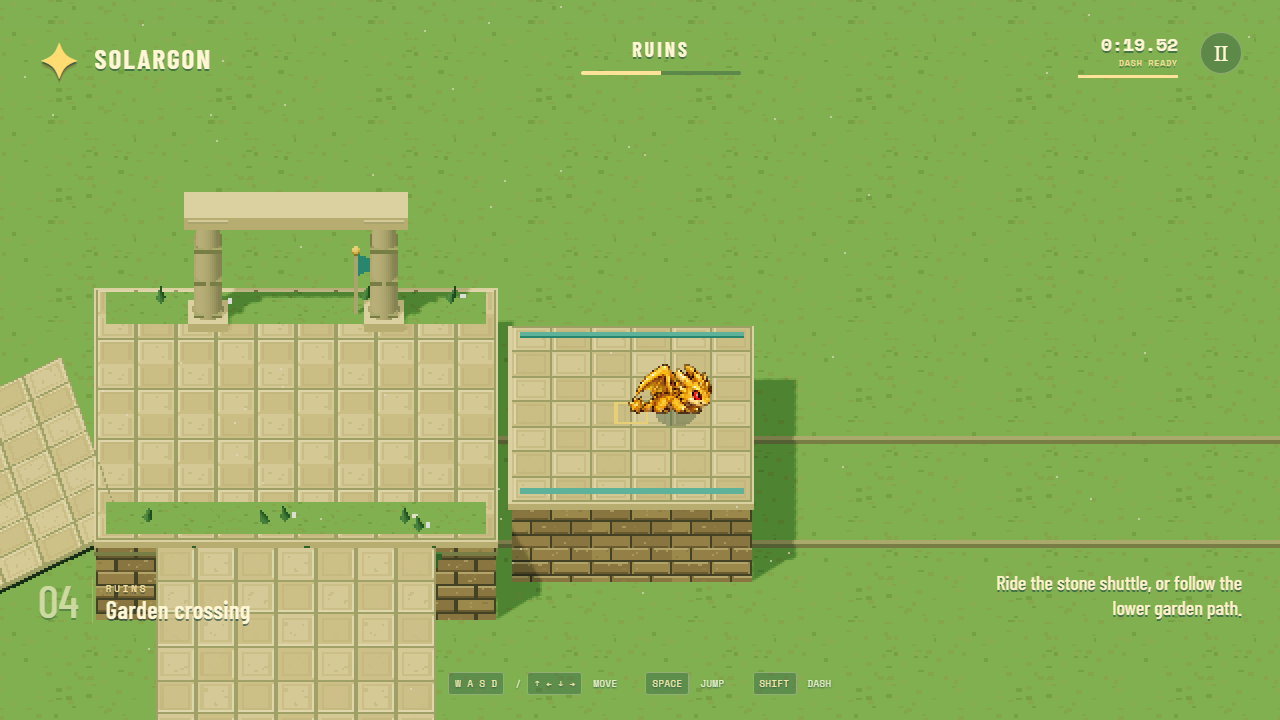
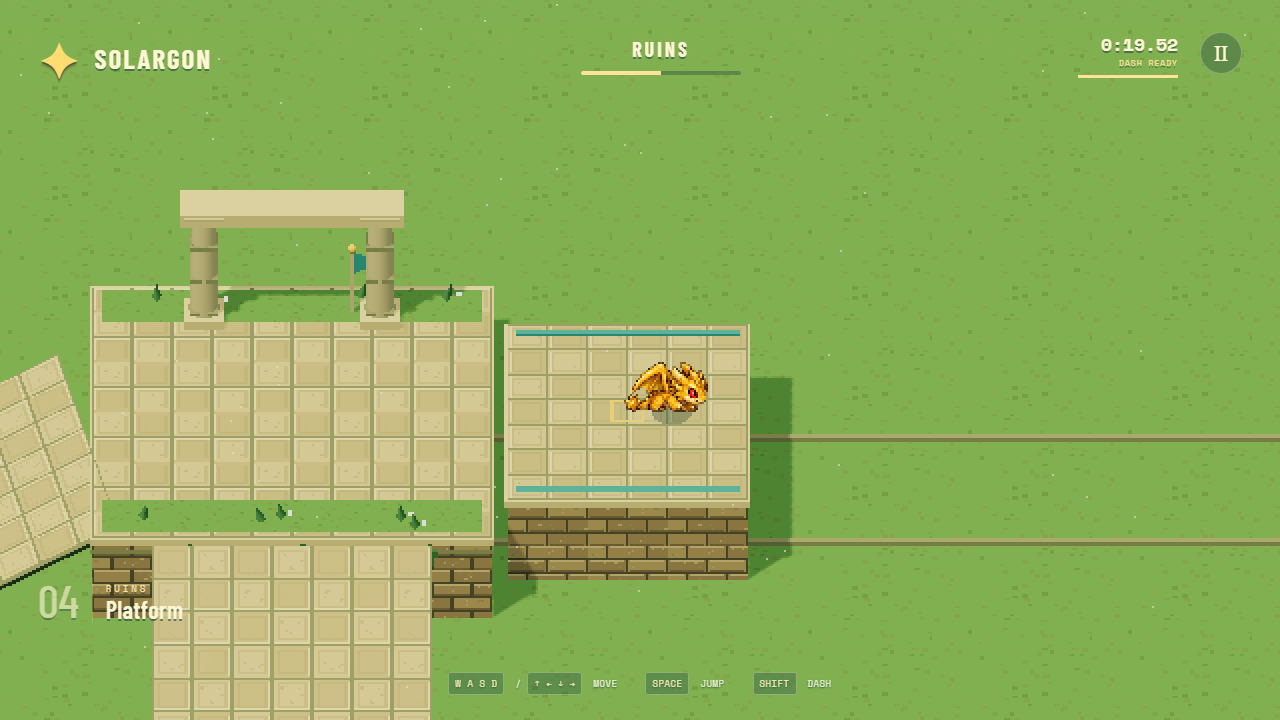
Remove all interface hint prose and decorative labels

Changed region(s): [[0.0, 0.275, 1.0, 1.0], [0.7812, 0.7944, 0.9688, 0.8556]]

diff --git a/src/course.ts b/src/course.ts
@@ -3,24 +3,12 @@ import type { PlatformSpec, Vec3 } from "./types";
 export const SPAWN: Vec3 = { x: -2.5, y: 0.86, z: 1 };
 export const GROUND = { x: 90, z: -22, top: -0.08, width: 380, depth: 180 };
 export const SECTIONS = [
-  { name: "Courtyard", hint: "Follow the blue flags. {dash} to dash." },
-  {
-    name: "Broken gallery",
-    hint: "Weave around the walls, or jump the low breaks.",
-  },
-  {
-    name: "Shuttle approach",
-    hint: "The upper dock leads to a shorter route.",
-  },
-  {
-    name: "Garden crossing",
-    hint: "Ride the stone shuttle, or follow the lower garden path.",
-  },
-  { name: "Column garden", hint: "Turn north at the flags." },
-  {
-    name: "Final straight",
-    hint: "Jump the low hurdles, or use the side lane.",
-  },
+  { name: "Start" },
+  { name: "Walls" },
+  { name: "Ramp" },
+  { name: "Platform" },
+  { name: "Garden" },
+  { name: "Finish" },
 ];
 export const PLATFORMS: PlatformSpec[] = [
   { id: "courtyard", x: 0, z: 0, top: 0, width: 18, depth: 14, section: 0 },

diff --git a/src/ui.ts b/src/ui.ts
@@ -78,7 +78,7 @@ export class UI {
     this.screen = screen;
     const playing = screen === "playing";
     element("overlay").hidden = playing;
-    for (const id of ["hud", "location", "hint", "controls"])
+    for (const id of ["hud", "location", "controls"])
       element(id).hidden = !playing;
     if (playing) {
       element<HTMLButtonElement>("primary-button").blur();
@@ -117,15 +117,6 @@ export class UI {
       "0",
     );
     element("location-name").textContent = info.name;
-    element("hint").textContent = info.hint
-      .replace(
-        "{jump}",
-        this.source === "gamepad" && this.connected ? "✕" : "Space",
-      )
-      .replace(
-        "{dash}",
-        this.source === "gamepad" && this.connected ? "Square / R1" : "Shift",
-      );
     element("progress-fill").style.width =
       `${Math.min(100, Math.max(0, progress * 100))}%`;
     element("run-time").textContent = formatTime(time);

diff --git a/index.html b/index.html
@@ -37,7 +37,6 @@
           <small>RUINS</small><strong id="location-name">Courtyard</strong>
         </div>
       </div>
-      <div id="hint" hidden></div>
       <div id="controls" hidden>
         <span><kbd>W A S D</kbd> / <kbd>↑ ← ↓ →</kbd> MOVE</span
         ><span><kbd>SPACE</kbd> HOLD TO JUMP HIGHER</span
@@ -47,9 +46,9 @@
         <section class="menu" aria-labelledby="menu-title">
           <div class="eyebrow" id="menu-eyebrow"></div>
           <div class="menu-emblem">✦</div>
-          <h1 id="menu-title">UNTITLED</h1>
-          <div id="menu-subtitle">KAIJU PLATFORMER · RUINS</div>
-          <p id="menu-description">Reach the sun gate.</p>
+          <h1 id="menu-title">PLAYTEST</h1>
+          <div id="menu-subtitle">RUINS</div>
+          <p id="menu-description"></p>
           <button id="primary-button" class="primary-button" disabled>
             Loading…
           </button>

diff --git a/AGENTS.md b/AGENTS.md
@@ -2,7 +2,7 @@
 
 - Read README.md and TODO.md before changing the game. For any character or environment art work, follow ART_DIRECTION.md and inspect the relevant original reference image before generation or integration.
 - Preserve each named character's identity. Solargon's generated atlas is a working draft; do not copy its clipping, inconsistent anatomy or shared jump/fall pose into new final assets.
-- Keep player-facing text plain and useful: names, controls, route instructions and results. No AI-sounding slogans, forced whimsy, marketing text or development notes in the interface.
+- Player-facing text is limited to functional labels, controls, time/results and menu buttons. No hint sentences, descriptions, taglines, decorative area names, slogans, forced whimsy, marketing text or development notes. Do not add prose back during level-design or UI work.
 - Keep the world on continuous solid ground with broad walkable connections. The user rejected floating islands, repeated gap falls, and movement requiring diagonal counter-steering. Preserve camera/route alignment, strong stick-noise rejection and stable idle grounding.
 - Preserve keyboard and DualSense input, camera-relative movement, fixed-step physics and the game's 640 × 360 render. Validate changes with the relevant unit/browser tests and a production build.
 - Distinguish synthetic Gamepad tests from physical DualSense testing. Physical USB/Bluetooth results belong in PLAYTEST.md; do not mark them passed without an actual controller playtest.

diff --git a/ART_DIRECTION.md b/ART_DIRECTION.md
@@ -126,4 +126,4 @@ An image-generation request is not evidence that the requested grid, anatomy or 
 - Ensure the new palette is legible against both stone and turquoise fog, and effects do not obscure the character or landing surface.
 - Document any remaining missing frames plainly. Update this reference when the team approves a style change.
 
-Keep player-facing copy short: names, controls, route instructions and result information. No generated slogans, inspirational lines, marketing text or development notes in the game interface.
+Player-facing text is limited to functional labels, controls, time/results and menu buttons. No prose hints, descriptions, taglines, decorative area names, slogans, inspirational lines, marketing text or development notes in the interface.

diff --git a/TODO.md b/TODO.md
@@ -1,5 +1,7 @@
 # Project TODOs
 
+- [x] Remove remaining hint sentences and decorative section names after user correction. UI now uses functional labels, controls, time/results and buttons only; preserve this rule in future level/UI changes.
+
 - [ ] Choose a game title together. Current labels are placeholders: Untitled Kaiju Project / Ruins.
 - [x] Increase normal movement speed and add a repeatable dash for keyboard and DualSense, with jump-dash, cooldown, collision checks and a live timer.
 - [x] Redesign ruins as distinct gallery, shuttle/garden and hurdle sections, with a safe route and validated faster shortcuts; avoid a walkable bridge beneath the shuttle.
